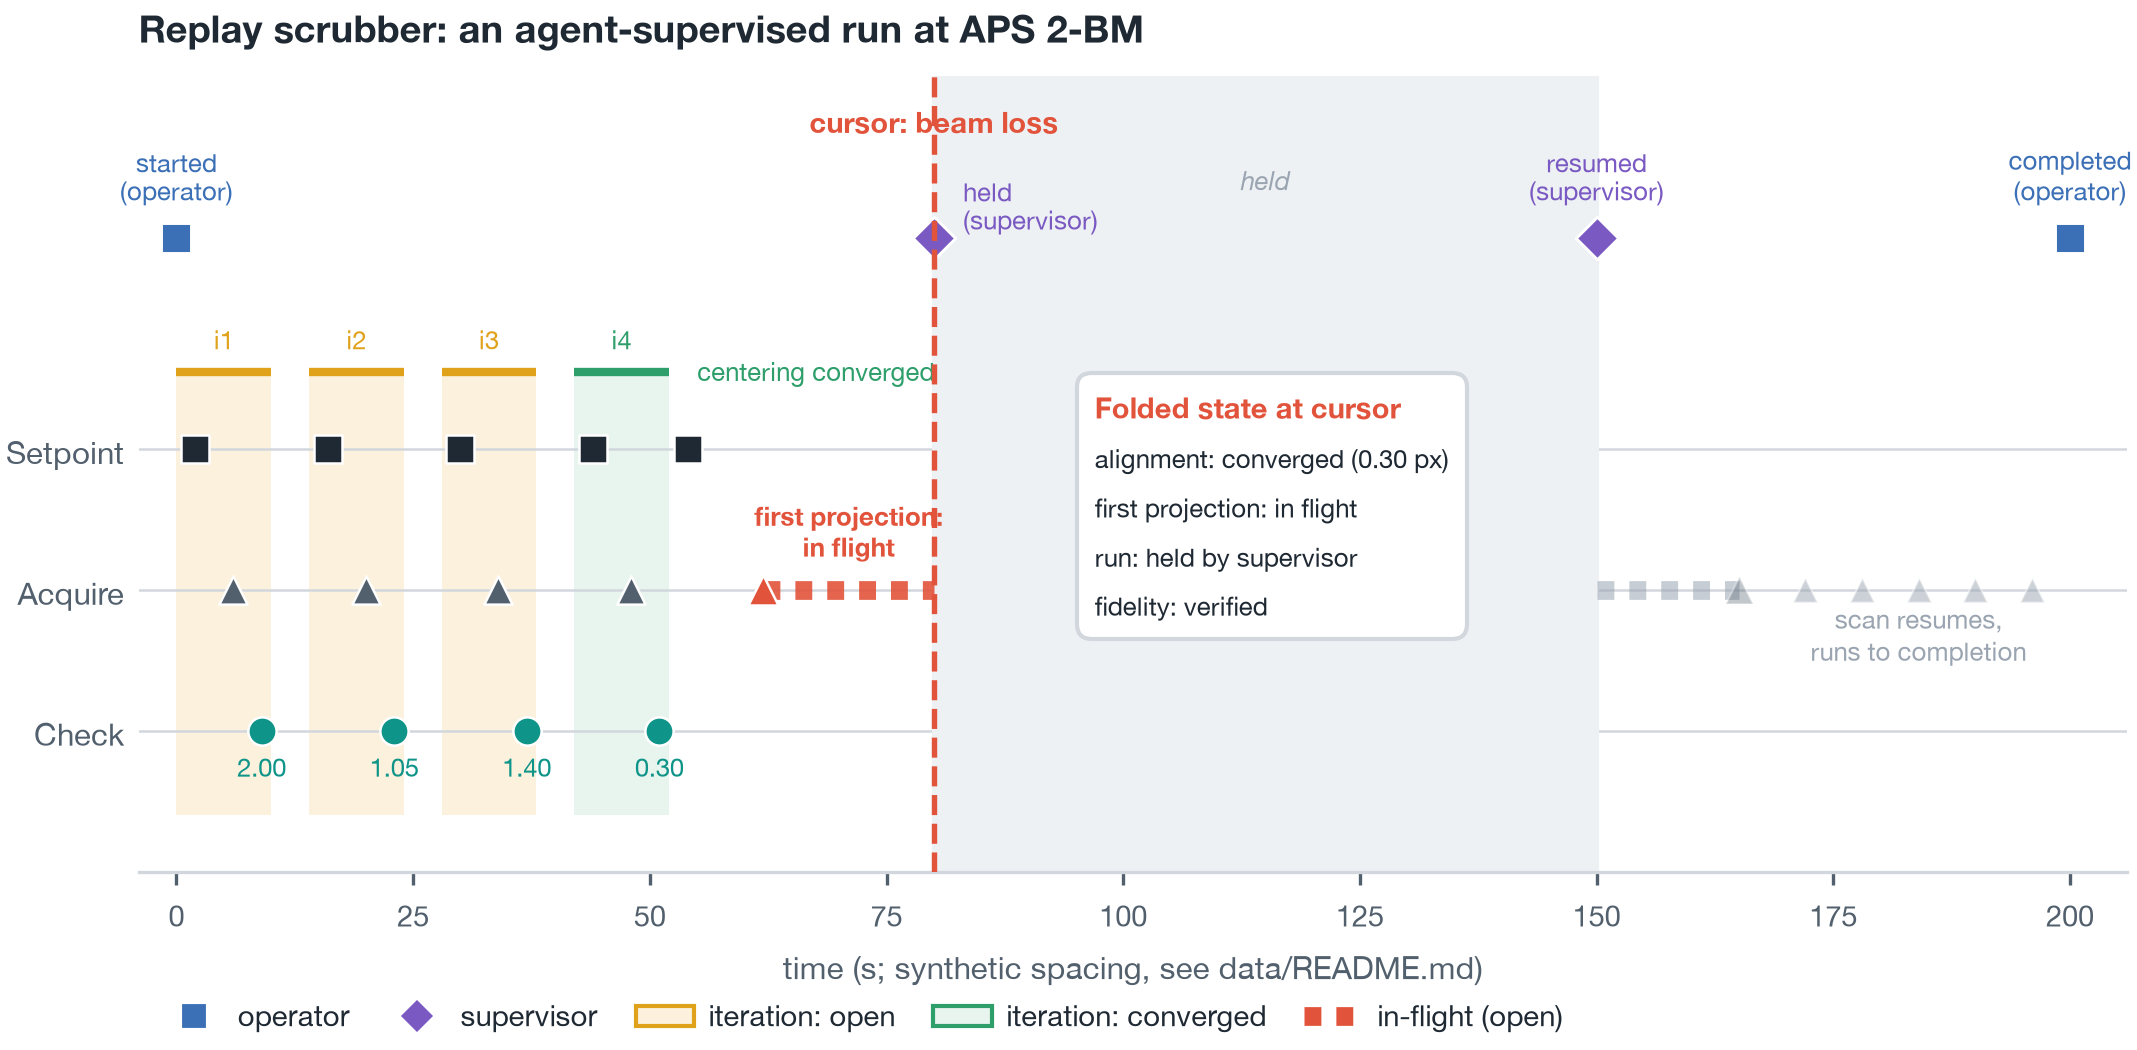
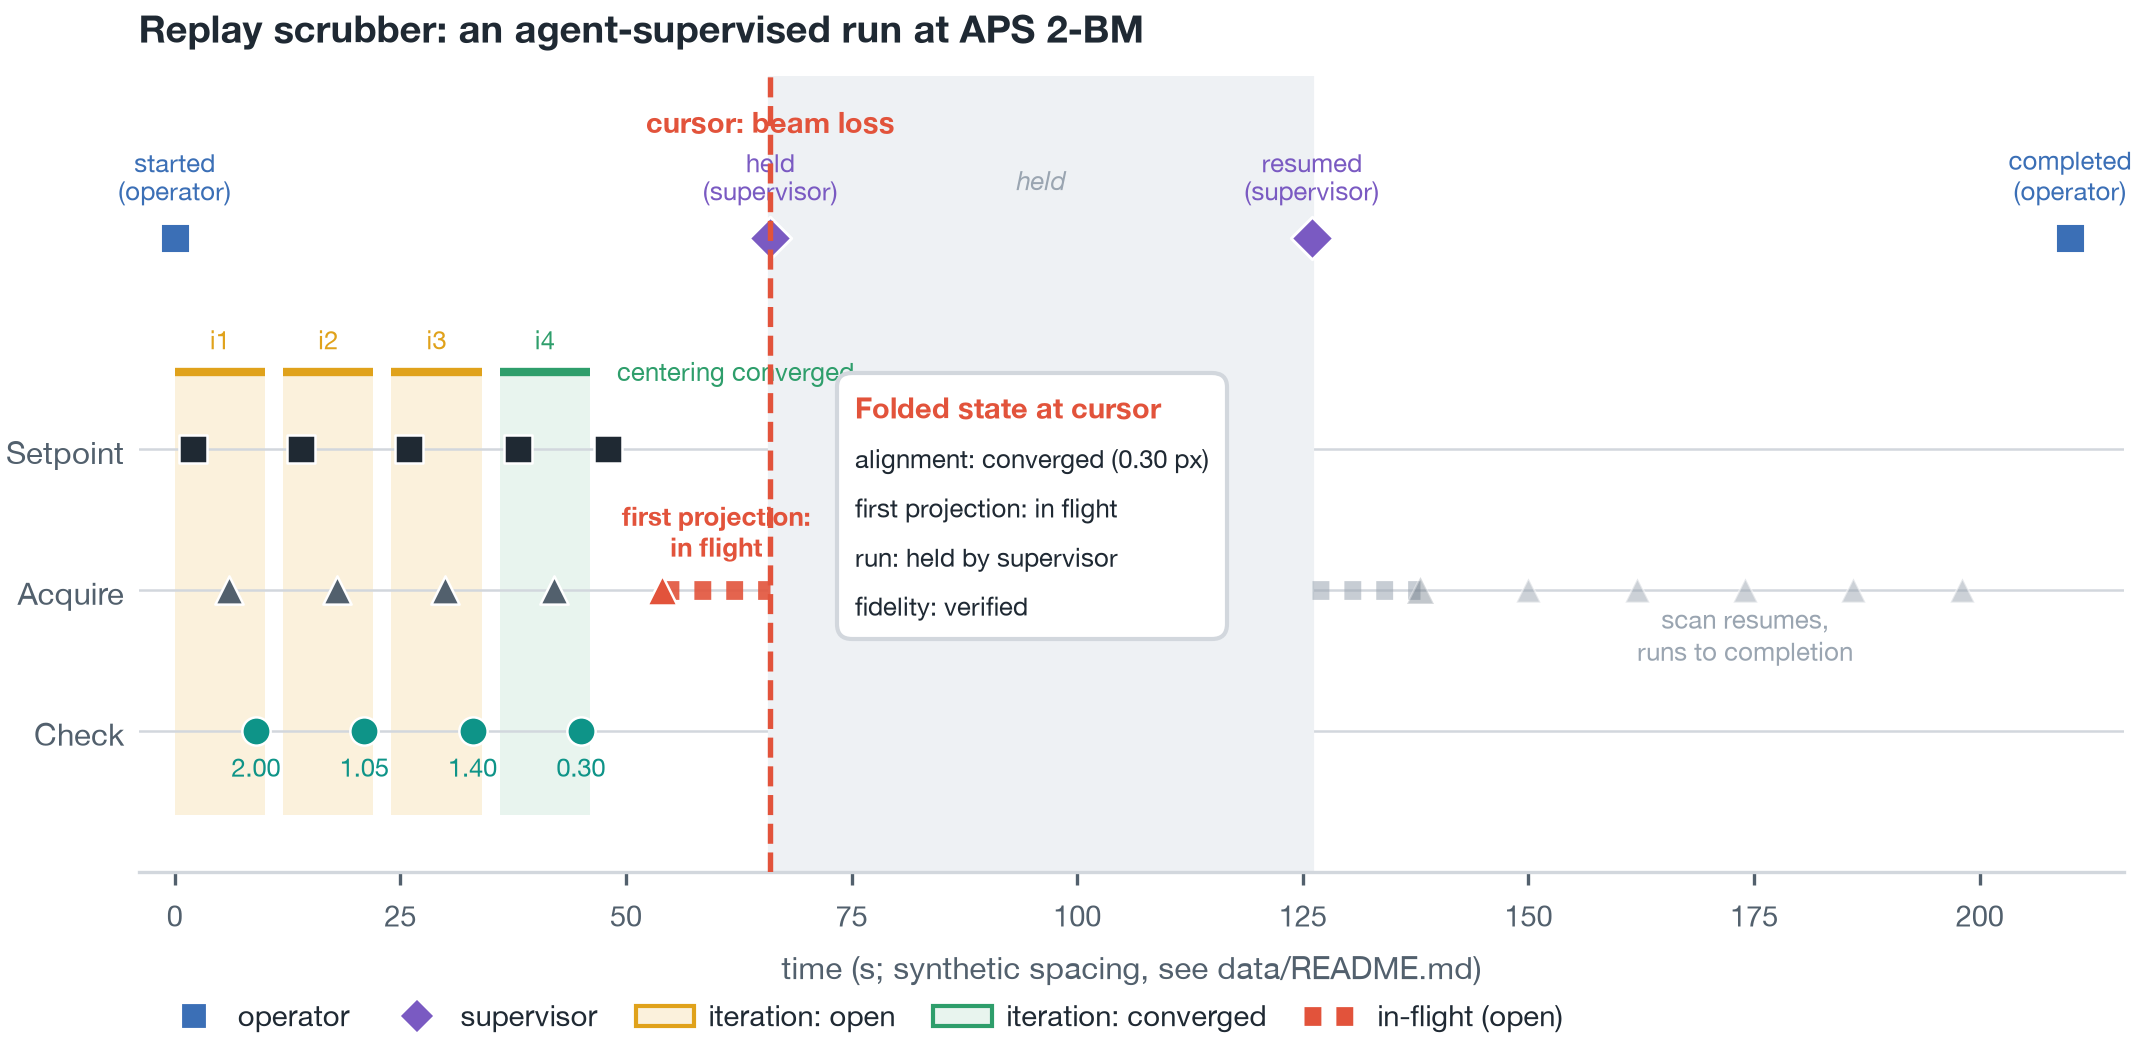
docs(papers): put the figure time axis on a regular grid; even markers, consistent labels
Looking closely at the axis, the synthetic timestamps were ad hoc: alignment
acquires sat ~14 s apart, the science scan ~6 s apart, and the ghosted resume
dashed line (15 s) was far longer than the scan spacing, so the triangles read
as unevenly paced. The "held" and "resumed" supervisor markers also used
different label offsets.

Re-time everything onto one 12 s grid: every acquire triangle is one stride
apart, both dashed segments (in-flight to cursor, resume to first outcome) are
exactly one stride, the hold spans five strides, and completion lands one stride
after the last projection. Both supervisor labels are now centered above their
diamonds, and the folded-state card is recentered over the relocated held band.
Timestamps remain synthetic; only their spacing changed, so F1 and F3 stay
grounded in the same recorded run.

Builds clean; body still within 6 pages excluding references.

diff --git a/papers/2026-vaxautosci-scrubber/data/build_lights_out_data.py b/papers/2026-vaxautosci-scrubber/data/build_lights_out_data.py
@@ -61,14 +61,14 @@ _PROCEDURE_EVENTS = [
 # Axis times are synthetic and compressed for a readable single axis; the
 # overnight wall-clock spread (the hold can last tens of minutes) lives in the
 # prose, not the axis.
-_ITER_STRIDE = 14.0
-_ACQ_BEGIN = 62.0          # first projection in-flight marker
-_BEAM_LOSS = 80.0          # RunHeld (beam dump)
-_BEAM_BACK = 150.0         # RunResumed (beam returns)
-_ACQ_END = 165.0           # first projection outcome after resume
-_SCAN_BEGIN = 172.0        # remaining science projections (sampled across the scan)
-_SCAN_STRIDE = 6.0
-_RUN_DONE = 200.0
+_ITER_STRIDE = 12.0        # one acquire every 12 s; the whole axis is a 12 s grid
+_ACQ_BEGIN = 54.0          # first projection in-flight (next acquire slot after alignment)
+_BEAM_LOSS = 66.0          # RunHeld (beam loss), one stride later
+_BEAM_BACK = 126.0         # RunResumed (beam returns) after a 5-stride hold
+_ACQ_END = 138.0           # first projection completes one stride after resume
+_SCAN_BEGIN = 150.0        # remaining science projections, on the same 12 s grid
+_SCAN_STRIDE = 12.0
+_RUN_DONE = 210.0          # one stride after the last projection
 
 
 def _build() -> dict:

diff --git a/papers/2026-vaxautosci-scrubber/figures/render_f1.py b/papers/2026-vaxautosci-scrubber/figures/render_f1.py
@@ -64,7 +64,7 @@ def main() -> None:
             va="bottom", fontsize=s.SIZE["small"], color=s.MUTE, style="italic")
 
     # Run lifecycle / who-drove-it lane.
-    label_pos = {"RunStarted": (0, 9, "center"), "RunHeld": (7, 2, "left"),
+    label_pos = {"RunStarted": (0, 9, "center"), "RunHeld": (0, 9, "center"),
                  "RunResumed": (0, 9, "center"), "RunCompleted": (0, 9, "center")}
     for ev in run_events:
         x = secs(ev["at"])
@@ -159,7 +159,7 @@ def main() -> None:
         _row("fidelity: verified", s.INK),
     ])
     card = AnchoredOffsetbox(loc="center", child=readout, pad=0.6, borderpad=0,
-                             frameon=True, bbox_to_anchor=(0.57, 0.46),
+                             frameon=True, bbox_to_anchor=(0.45, 0.46),
                              bbox_transform=ax.transAxes)
     card.patch.set(boxstyle="round,pad=0,rounding_size=0.5", facecolor="white",
                    edgecolor=s.RULE, linewidth=1.0)
